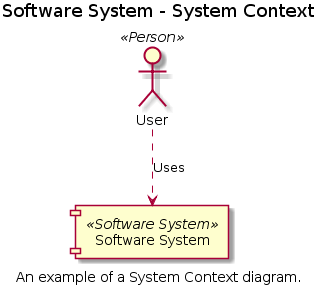
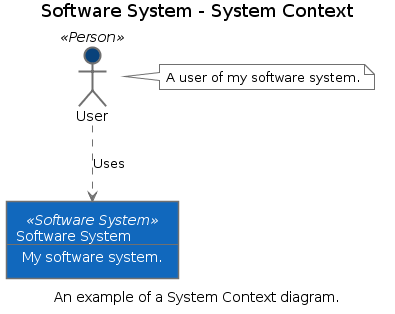
Updated the PlantUML examples.

diff --git a/docs/plantuml.md b/docs/plantuml.md
@@ -24,8 +24,14 @@ SystemContextView contextView = views.createSystemContextView(softwareSystem, "S
 contextView.addAllSoftwareSystems();
 contextView.addAllPeople();
 
+Styles styles = views.getConfiguration().getStyles();
+styles.addElementStyle(Tags.SOFTWARE_SYSTEM).background("#1168bd").color("#ffffff");
+styles.addElementStyle(Tags.PERSON).background("#08427b").color("#ffffff").shape(Shape.Person);
+
 StringWriter stringWriter = new StringWriter();
 PlantUMLWriter plantUMLWriter = new PlantUMLWriter();
+plantUMLWriter.addSkinParam("rectangleFontColor", "#ffffff");
+plantUMLWriter.addSkinParam("rectangleStereotypeFontColor", "#ffffff");
 plantUMLWriter.write(workspace, stringWriter);
 System.out.println(stringWriter.toString());
 ```
@@ -36,9 +42,28 @@ This code will generate and output a PlantUML diagram definition that looks like
 @startuml
 title Software System - System Context
 caption An example of a System Context diagram.
-component "Software System" <<Software System>> as 2
-actor "User" <<Person>> as 1
-1 ..> 2 : Uses
+
+skinparam {
+  shadowing false
+  arrowColor #707070
+  actorBorderColor #707070
+  componentBorderColor #707070
+  rectangleBorderColor #707070
+  noteBackgroundColor #ffffff
+  noteBorderColor #707070
+  rectangleFontColor #ffffff
+  rectangleStereotypeFontColor #ffffff
+}
+rectangle 2 <<Software System>> #1168bd [
+  Software System
+  --
+  My software system.
+]
+actor "User" <<Person>> as 1 #08427b
+note right of 1
+  A user of my software system.
+end note
+1 .[#707070].> 2 : Uses
 @enduml
 ```
 
